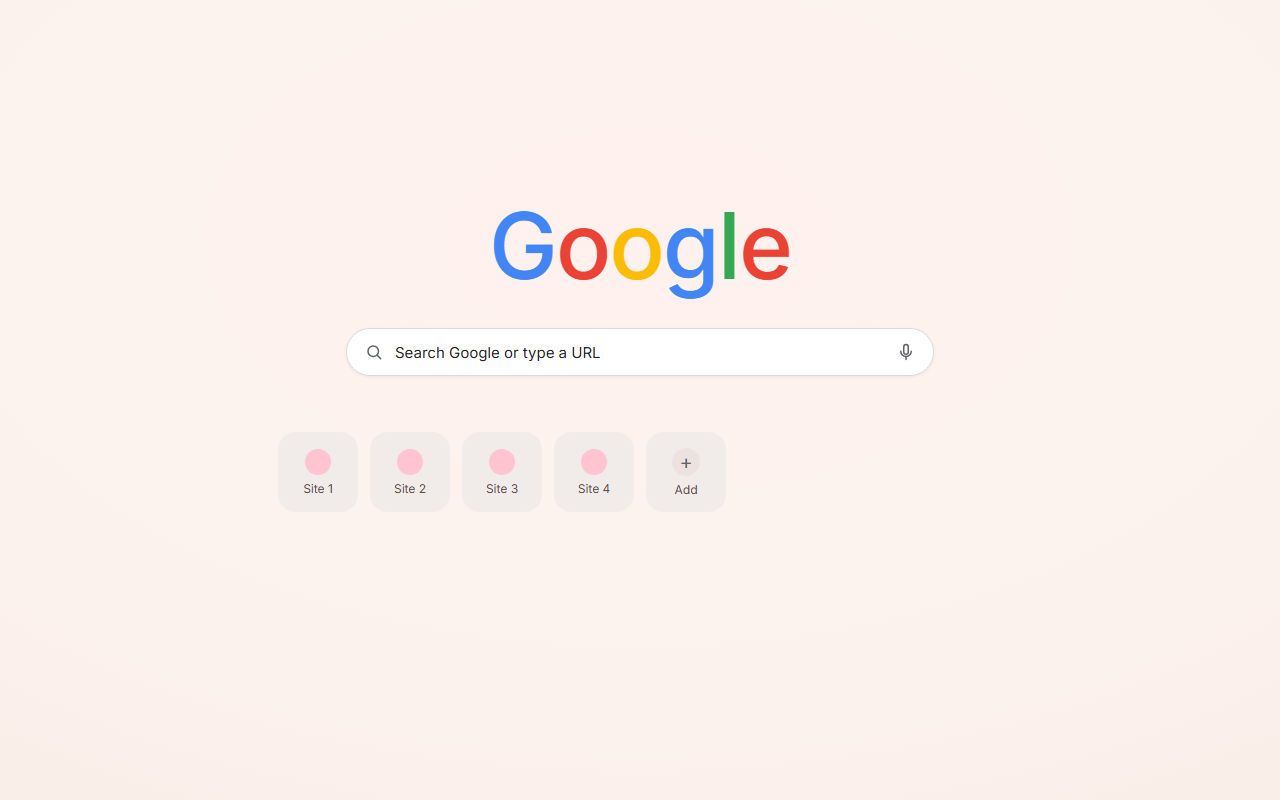
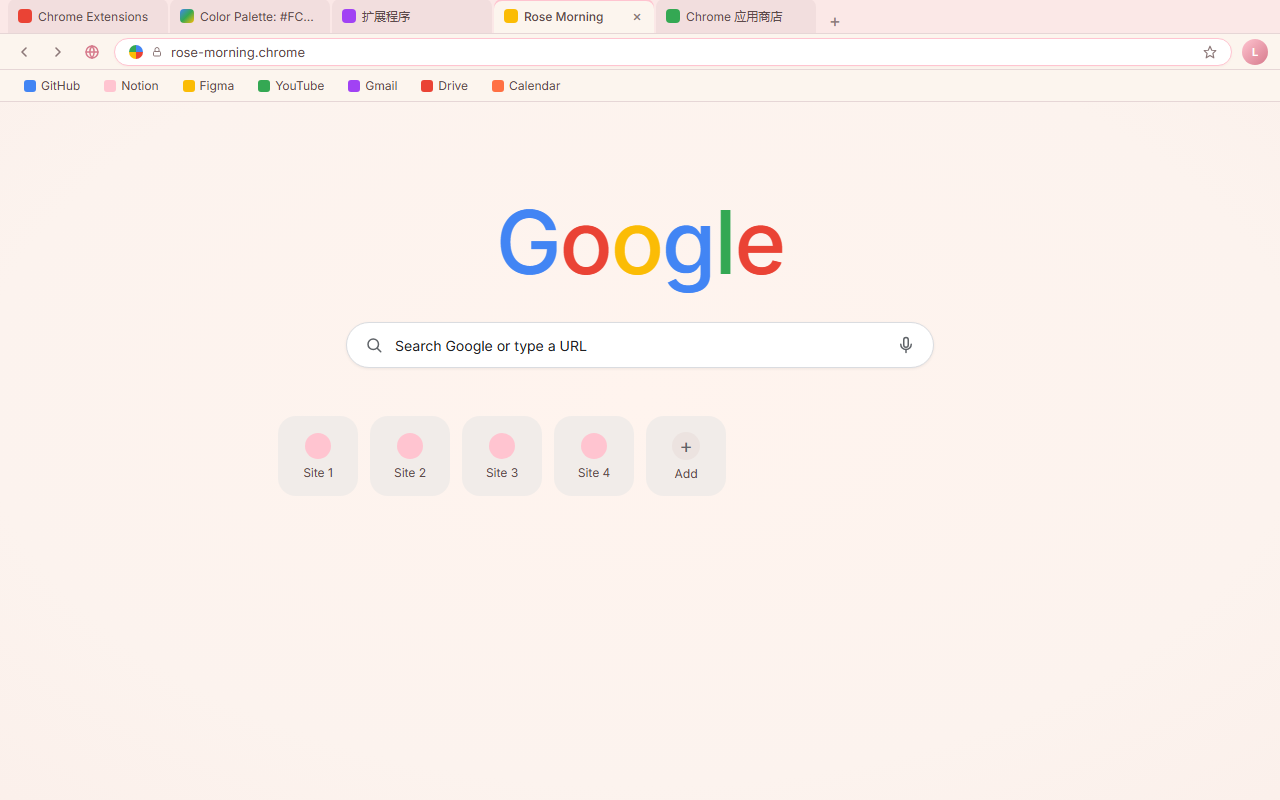
screenshot: add Chrome window chrome (tabs, toolbar, omnibox, bookmarks) to NTP mockup

diff --git a/scripts/mockups/ntp.html b/scripts/mockups/ntp.html
@@ -18,6 +18,9 @@
     --sub:          #8C7878;  /* secondary text */
     --border:       #E6D6D6;
     --white:        #FFFFFF;
+    --toolbar-h:    36px;
+    --tabs-h:       34px;
+    --bookmark-h:   32px;
   }
   * { box-sizing: border-box; }
   html, body { margin: 0; padding: 0; }
@@ -25,25 +28,204 @@
     width: 1280px;
     height: 800px;
     background:
-      radial-gradient(1200px 700px at 50% 30%, #FFF1EE 0%, #FCF3EE 55%, #FAEDE8 100%);
+      radial-gradient(1200px 700px at 50% 50%, #FFF4EE 0%, #FCF3EE 55%, #FAEDE8 100%);
     font-family: 'Inter', 'Segoe UI', system-ui, sans-serif;
     color: var(--text);
     overflow: hidden;
   }
 
-  /* ===== Center stack: Google logo + search + shortcut tiles ===== */
-  .ntp {
-    position: relative;
+  /* ===== Chrome chrome (window frame) ===== */
+  .chrome {
     width: 100%;
-    height: 100%;
-    padding-top: 200px;
+    display: flex;
+    flex-direction: column;
+  }
+
+  /* ===== Tab strip ===== */
+  .tab-strip {
+    height: var(--tabs-h);
+    background: var(--blush);
+    display: flex;
+    align-items: flex-end;
+    padding: 4px 8px 0 8px;
+    gap: 2px;
+    overflow: hidden;
+    border-bottom: 1px solid var(--border);
+  }
+  .tab {
+    height: var(--tabs-h);
+    min-width: 110px;
+    max-width: 180px;
+    flex: 0 1 160px;
+    border-radius: 8px 8px 0 0;
+    background: #F2DEDE;
+    color: var(--text);
+    font-size: 12px;
+    padding: 0 10px;
+    display: flex;
+    align-items: center;
+    gap: 6px;
+    position: relative;
+    overflow: hidden;
+  }
+  .tab .favicon {
+    width: 14px; height: 14px; border-radius: 4px;
+    flex: 0 0 14px;
+    background: var(--rose);
+  }
+  .tab .favicon.t-red { background: #EA4335; }
+  .tab .favicon.t-yellow { background: #FBBC05; }
+  .tab .favicon.t-green { background: #34A853; }
+  .tab .favicon.t-purple { background: #A142F4; }
+  .tab .favicon.t-store { background: linear-gradient(135deg, #4285F4 0%, #34A853 50%, #FBBC05 100%); }
+  .tab.active {
+    background: var(--cream);
+    color: var(--text);
+    font-weight: 500;
+    box-shadow: inset 0 2px 0 0 var(--rose);
+  }
+  .tab .label {
+    flex: 1;
+    overflow: hidden;
+    text-overflow: ellipsis;
+    white-space: nowrap;
+  }
+  .tab .close {
+    width: 14px; height: 14px;
+    display: flex; align-items: center; justify-content: center;
+    color: var(--sub);
+    font-size: 14px;
+    line-height: 1;
+    border-radius: 50%;
+  }
+  .new-tab {
+    width: 26px; height: 26px;
+    margin-left: 4px;
+    display: flex; align-items: center; justify-content: center;
+    color: var(--sub);
+    font-size: 18px;
+    border-radius: 50%;
+  }
+
+  /* ===== Toolbar (URL bar) ===== */
+  .toolbar {
+    height: var(--toolbar-h);
+    background: var(--cream);
+    display: flex;
+    align-items: center;
+    padding: 0 12px;
+    gap: 10px;
+    border-bottom: 1px solid var(--border);
+  }
+  .nav-btn {
+    width: 24px; height: 24px;
+    display: flex; align-items: center; justify-content: center;
+    color: var(--sub);
+    border-radius: 50%;
+  }
+  .nav-btn svg { width: 16px; height: 16px; }
+  .nav-btn.active { color: var(--rose-deep); }
+
+  .omnibox {
+    flex: 1;
+    height: 28px;
+    background: var(--white);
+    border: 1px solid var(--rose);
+    border-radius: 16px;
+    display: flex;
+    align-items: center;
+    padding: 0 14px;
+    gap: 8px;
+    box-shadow: 0 1px 2px rgba(214, 122, 140, 0.08);
+  }
+  .omnibox .g {
+    width: 14px; height: 14px; border-radius: 50%;
+    background: conic-gradient(
+      from 0deg,
+      #4285F4 0 25%,
+      #EA4335 25% 50%,
+      #FBBC05 50% 75%,
+      #34A853 75% 100%
+    );
+    flex: 0 0 14px;
+  }
+  .omnibox .lock {
+    width: 12px; height: 12px;
+    color: var(--sub);
+    flex: 0 0 12px;
+  }
+  .omnibox .url {
+    flex: 1;
+    font-size: 13px;
+    color: var(--text);
+    overflow: hidden;
+    text-overflow: ellipsis;
+    white-space: nowrap;
+  }
+  .omnibox .url b {
+    color: var(--text);
+    font-weight: 600;
+  }
+  .omnibox .star {
+    width: 14px; height: 14px;
+    color: var(--sub);
+    flex: 0 0 14px;
+  }
+  .profile {
+    width: 26px; height: 26px;
+    border-radius: 50%;
+    background: linear-gradient(135deg, var(--rose) 0%, var(--rose-deep) 100%);
+    color: var(--white);
+    font-size: 11px;
+    font-weight: 600;
+    display: flex; align-items: center; justify-content: center;
+  }
+
+  /* ===== Bookmark bar ===== */
+  .bookmarks {
+    height: var(--bookmark-h);
+    background: var(--cream);
+    display: flex;
+    align-items: center;
+    padding: 0 14px;
+    gap: 4px;
+    border-bottom: 1px solid var(--border);
+  }
+  .bm {
+    display: flex;
+    align-items: center;
+    gap: 5px;
+    padding: 4px 10px;
+    border-radius: 12px;
+    font-size: 12px;
+    color: var(--text);
+  }
+  .bm:hover { background: rgba(255, 196, 208, 0.35); }
+  .bm .b-fav {
+    width: 12px; height: 12px; border-radius: 3px;
+    flex: 0 0 12px;
+  }
+  .bm .b-fav.b1 { background: #4285F4; }
+  .bm .b-fav.b2 { background: var(--rose); }
+  .bm .b-fav.b3 { background: #FBBC05; }
+  .bm .b-fav.b4 { background: #34A853; }
+  .bm .b-fav.b5 { background: #A142F4; }
+  .bm .b-fav.b6 { background: #EA4335; }
+  .bm .b-fav.b7 { background: #FF7043; }
+
+  /* ===== NTP body ===== */
+  .ntp-body {
+    flex: 1;
+    position: relative;
+    padding-top: 96px;
     display: flex;
     flex-direction: column;
     align-items: center;
+    overflow: hidden;
   }
   .google-logo {
     font-family: 'Inter', sans-serif;
-    font-size: 92px;
+    font-size: 88px;
     font-weight: 500;
     letter-spacing: -2px;
     line-height: 1;
@@ -59,7 +241,7 @@
 
   .search {
     width: 588px;
-    height: 48px;
+    height: 46px;
     background: var(--white);
     border: 1px solid #DADCE0;
     border-radius: 24px;
@@ -76,7 +258,7 @@
   }
   .search .text {
     flex: 1;
-    font-size: 15px;
+    font-size: 14px;
     color: #202124;
   }
   .search .mic {
@@ -87,7 +269,7 @@
 
   /* shortcut tiles */
   .tiles {
-    margin-top: 56px;
+    margin-top: 48px;
     display: grid;
     grid-template-columns: repeat(8, 80px);
     gap: 12px;
@@ -120,33 +302,77 @@
 </style>
 </head>
 <body>
-  <div class="ntp">
-    <div class="google-logo">
-      <span class="g1">G</span><span class="o1">o</span><span class="o2">o</span><span class="g2">g</span><span class="l">l</span><span class="e">e</span>
+  <div class="chrome">
+    <!-- Tab strip (4 inactive tabs + 1 active Rose Morning tab) -->
+    <div class="tab-strip">
+      <div class="tab"><span class="favicon t-red"></span><span class="label">Chrome Extensions</span></div>
+      <div class="tab"><span class="favicon t-store"></span><span class="label">Color Palette: #FCF5EE</span></div>
+      <div class="tab"><span class="favicon t-purple"></span><span class="label">扩展程序</span></div>
+      <div class="tab active"><span class="favicon t-yellow"></span><span class="label">Rose Morning</span><span class="close">×</span></div>
+      <div class="tab"><span class="favicon t-green"></span><span class="label">Chrome 应用商店</span></div>
+      <div class="new-tab">+</div>
     </div>
 
-    <div class="search" role="search" aria-label="Search">
-      <!-- magnifier icon -->
-      <svg class="icon" viewBox="0 0 24 24" fill="none" stroke="currentColor" stroke-width="2" stroke-linecap="round" stroke-linejoin="round" aria-hidden="true">
-        <circle cx="11" cy="11" r="7"></circle>
-        <line x1="21" y1="21" x2="16.65" y2="16.65"></line>
-      </svg>
-      <div class="text">Search Google or type a URL</div>
-      <!-- mic icon -->
-      <svg class="mic" viewBox="0 0 24 24" fill="none" stroke="currentColor" stroke-width="2" stroke-linecap="round" stroke-linejoin="round" aria-hidden="true">
-        <rect x="9" y="2" width="6" height="13" rx="3"></rect>
-        <path d="M5 11a7 7 0 0 0 14 0"></path>
-        <line x1="12" y1="18" x2="12" y2="22"></line>
-      </svg>
+    <!-- Toolbar with omnibox -->
+    <div class="toolbar">
+      <span class="nav-btn">
+        <svg viewBox="0 0 24 24" fill="none" stroke="currentColor" stroke-width="2.4" stroke-linecap="round" stroke-linejoin="round"><polyline points="15 18 9 12 15 6"></polyline></svg>
+      </span>
+      <span class="nav-btn">
+        <svg viewBox="0 0 24 24" fill="none" stroke="currentColor" stroke-width="2.4" stroke-linecap="round" stroke-linejoin="round"><polyline points="9 18 15 12 9 6"></polyline></svg>
+      </span>
+      <span class="nav-btn active">
+        <svg viewBox="0 0 24 24" fill="none" stroke="currentColor" stroke-width="2.2" stroke-linecap="round" stroke-linejoin="round"><path d="M3 12a9 9 0 1 0 18 0 9 9 0 0 0-18 0z"/><path d="M3 12h18"/><path d="M12 3a14 14 0 0 1 0 18"/><path d="M12 3a14 14 0 0 0 0 18"/></svg>
+      </span>
+      <div class="omnibox">
+        <span class="g"></span>
+        <svg class="lock" viewBox="0 0 24 24" fill="none" stroke="currentColor" stroke-width="2" stroke-linecap="round" stroke-linejoin="round"><rect x="5" y="11" width="14" height="9" rx="2"/><path d="M8 11V7a4 4 0 0 1 8 0v4"/></svg>
+        <span class="url">rose-morning.chrome</span>
+        <svg class="star" viewBox="0 0 24 24" fill="none" stroke="currentColor" stroke-width="2" stroke-linecap="round" stroke-linejoin="round"><polygon points="12 2 15 9 22 9.5 17 14.5 18.5 22 12 18 5.5 22 7 14.5 2 9.5 9 9"/></svg>
+      </div>
+      <span class="profile">L</span>
     </div>
 
-    <div class="tiles" aria-label="Shortcuts">
-      <div class="tile"><div class="dot"></div>Site 1</div>
-      <div class="tile"><div class="dot"></div>Site 2</div>
-      <div class="tile"><div class="dot"></div>Site 3</div>
-      <div class="tile"><div class="dot"></div>Site 4</div>
-      <div class="tile add"><div class="plus">+</div>Add</div>
+    <!-- Bookmark bar -->
+    <div class="bookmarks">
+      <div class="bm"><span class="b-fav b1"></span>GitHub</div>
+      <div class="bm"><span class="b-fav b2"></span>Notion</div>
+      <div class="bm"><span class="b-fav b3"></span>Figma</div>
+      <div class="bm"><span class="b-fav b4"></span>YouTube</div>
+      <div class="bm"><span class="b-fav b5"></span>Gmail</div>
+      <div class="bm"><span class="b-fav b6"></span>Drive</div>
+      <div class="bm"><span class="b-fav b7"></span>Calendar</div>
+    </div>
+
+    <!-- NTP content -->
+    <div class="ntp-body">
+      <div class="google-logo">
+        <span class="g1">G</span><span class="o1">o</span><span class="o2">o</span><span class="g2">g</span><span class="l">l</span><span class="e">e</span>
+      </div>
+
+      <div class="search" role="search" aria-label="Search">
+        <svg class="icon" viewBox="0 0 24 24" fill="none" stroke="currentColor" stroke-width="2" stroke-linecap="round" stroke-linejoin="round">
+          <circle cx="11" cy="11" r="7"></circle>
+          <line x1="21" y1="21" x2="16.65" y2="16.65"></line>
+        </svg>
+        <div class="text">Search Google or type a URL</div>
+        <svg class="mic" viewBox="0 0 24 24" fill="none" stroke="currentColor" stroke-width="2" stroke-linecap="round" stroke-linejoin="round">
+          <rect x="9" y="2" width="6" height="13" rx="3"></rect>
+          <path d="M5 11a7 7 0 0 0 14 0"></path>
+          <line x1="12" y1="18" x2="12" y2="22"></line>
+        </svg>
+      </div>
+
+      <div class="tiles" aria-label="Shortcuts">
+        <div class="tile"><div class="dot"></div>Site 1</div>
+        <div class="tile"><div class="dot"></div>Site 2</div>
+        <div class="tile"><div class="dot"></div>Site 3</div>
+        <div class="tile"><div class="dot"></div>Site 4</div>
+        <div class="tile add"><div class="plus">+</div>Add</div>
+      </div>
     </div>
   </div>
 </body>
 </html>
+</content>
+</invoke>
